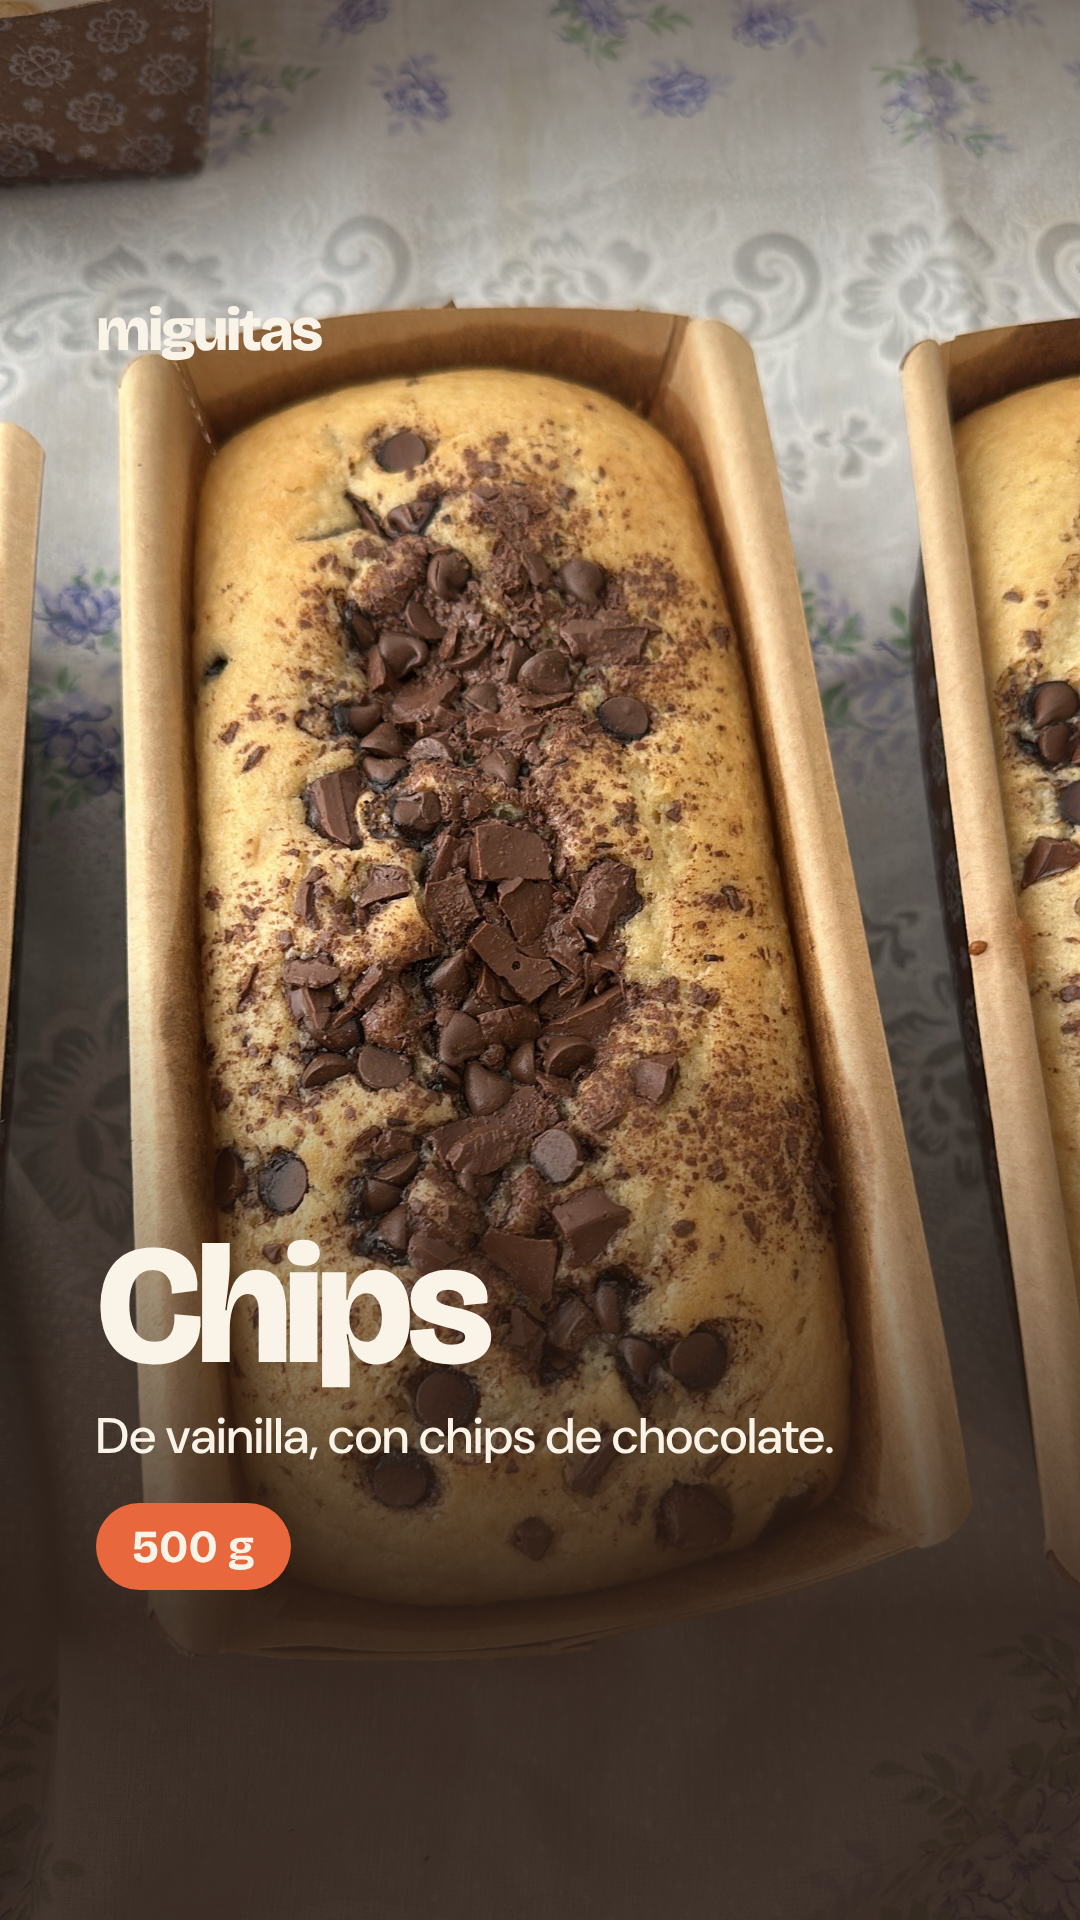
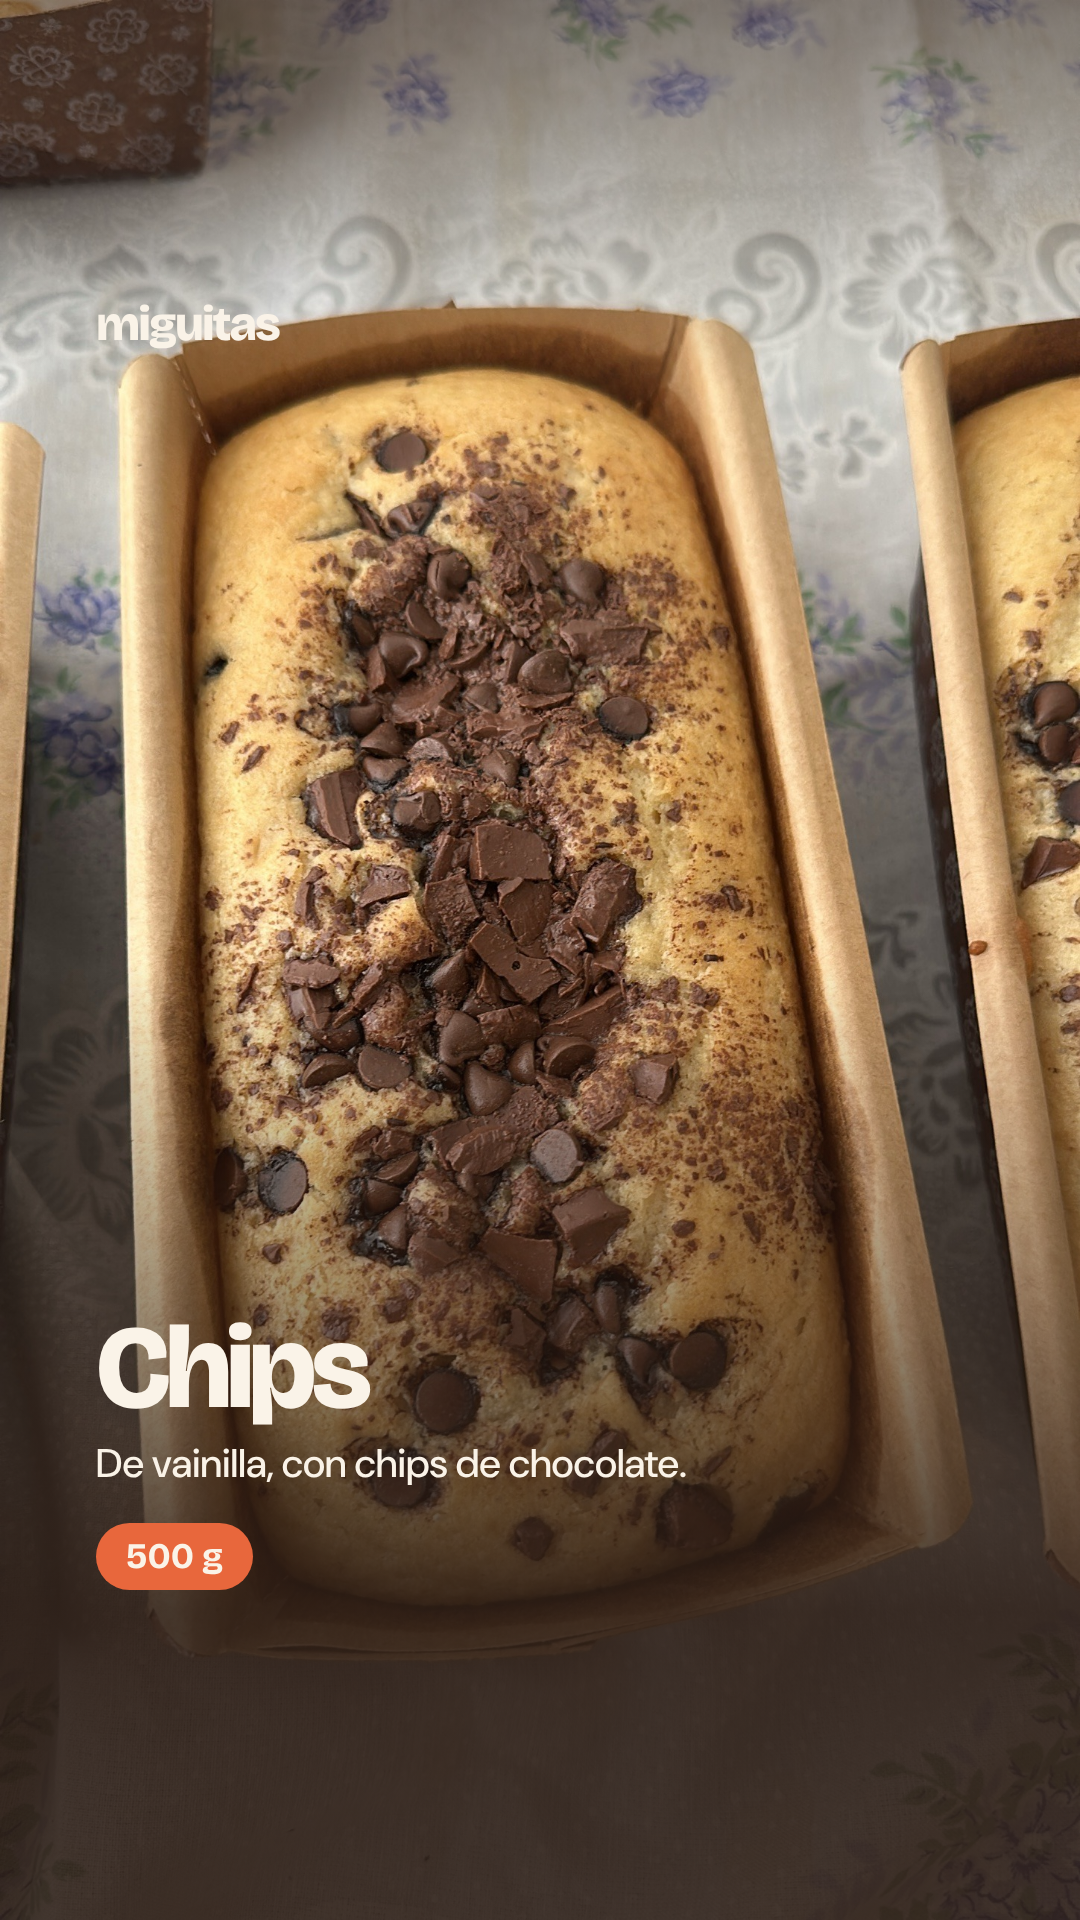
Instagram: letra más chica en las historias de producto
Claude-Session: https://claude.ai/code/session_01E37741rvoTVLUcn2uQcmpN

Changed region(s): [[0.0917, 0.625, 0.7639, 0.8438], [0.0917, 0.1562, 0.3056, 0.1875]]

diff --git a/instagram/piezas.html b/instagram/piezas.html
@@ -137,11 +137,11 @@ body{background:#ddd;display:flex;flex-wrap:wrap;gap:40px;padding:40px;font-fami
 .h-prod{width:1080px;height:1920px;padding:300px 96px 330px;display:flex;flex-direction:column;color:var(--crema);background-size:cover;background-position:center}
 .h-prod::before{content:"";position:absolute;inset:0;background:linear-gradient(180deg,rgba(43,29,22,.55) 0%,rgba(43,29,22,0) 20%,rgba(43,29,22,0) 50%,rgba(43,29,22,.88) 84%)}
 .h-prod>*{position:relative}
-.h-prod .marca.chica{font-size:60px}
+.h-prod .marca.chica{font-size:48px}
 .h-prod .abajo{margin-top:auto}
-.h-prod h1{font-family:var(--display);font-weight:800;font-size:170px;letter-spacing:-.045em;line-height:.9}
-.h-prod p{font-size:50px;font-weight:500;margin-top:20px}
-.h-prod .chip{display:inline-block;margin-top:34px;background:var(--mandarina);color:var(--crema);font-family:var(--display);font-weight:700;font-size:46px;padding:16px 36px;border-radius:999px}
+.h-prod h1{font-family:var(--display);font-weight:800;font-size:118px;letter-spacing:-.045em;line-height:.9}
+.h-prod p{font-size:40px;font-weight:500;margin-top:16px}
+.h-prod .chip{display:inline-block;margin-top:34px;background:var(--mandarina);color:var(--crema);font-family:var(--display);font-weight:700;font-size:36px;padding:12px 30px;border-radius:999px}
 #h-chips{background-image:url(fotos/chips-mantel.jpg)}
 #h-limon{background-image:url(fotos/limon-en-mano-patio.jpg);background-position:50% 30%}
 #h-limon::before{background:linear-gradient(180deg,rgba(43,29,22,.55) 0%,rgba(43,29,22,0) 18%,rgba(43,29,22,0) 42%,rgba(43,29,22,.9) 72%)}
